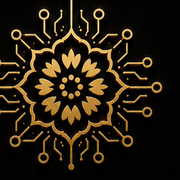
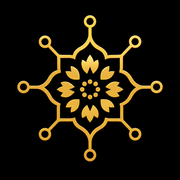
Add files via upload

Changed region(s): [[0.0, 0.0, 0.9167, 0.9444]]

diff --git a/src/styles.css b/src/styles.css
@@ -619,3 +619,68 @@ footer p {
     opacity: .18 !important;
   }
 }
+
+
+/* Luxury logo background and scrolled header logo update */
+#home {
+  overflow: hidden;
+}
+
+#home::before {
+  background:
+    radial-gradient(circle at center, rgba(0,0,0,.08), transparent 34%),
+    linear-gradient(90deg, rgba(0,0,0,.90) 0%, rgba(0,0,0,.62) 42%, rgba(0,0,0,.82) 100%) !important;
+}
+
+.hero-background-logo {
+  position: absolute;
+  inset: 0;
+  display: grid !important;
+  place-items: center !important;
+  pointer-events: none;
+  overflow: hidden;
+  z-index: 1;
+}
+
+.hero-background-logo img {
+  width: min(1040px, 84vw) !important;
+  max-height: 78vh;
+  height: auto;
+  object-fit: contain;
+  object-position: center center;
+  opacity: .34 !important;
+  transform: none !important;
+  filter:
+    drop-shadow(0 0 34px rgba(217,164,65,.40))
+    drop-shadow(0 0 110px rgba(217,164,65,.24)) !important;
+}
+
+.header-logo-horizontal {
+  width: 210px !important;
+  height: 56px !important;
+  object-fit: contain !important;
+  object-position: left center !important;
+  border-radius: 0 !important;
+  filter: drop-shadow(0 0 14px rgba(217,164,65,.28));
+}
+
+.header-brand {
+  min-width: 210px;
+  justify-content: flex-start !important;
+}
+
+@media (max-width: 980px) {
+  .hero-background-logo img {
+    width: min(780px, 96vw) !important;
+    opacity: .25 !important;
+  }
+
+  .header-logo-horizontal {
+    width: 175px !important;
+    height: 46px !important;
+  }
+
+  .header-brand {
+    min-width: 175px;
+  }
+}

diff --git a/src/main.jsx b/src/main.jsx
@@ -17,8 +17,9 @@ import {
   ServerCog,
   ClipboardList
 } from "lucide-react";
-import primaryLogo from "./assets/lodes-primary-clean.png";
+import luxuryLogoBackground from "./assets/luxury-logo-background.png";
 import iconLogo from "./assets/lodes-icon-clean.png";
+import horizontalHeaderLogo from "./assets/horizontal-header-logo.png";
 import "./styles.css";
 
 const navItems = [
@@ -95,12 +96,11 @@ function App() {
 
       <header className={`site-header ${activeSection !== "home" ? "scrolled" : ""}`}>
         <button className="header-brand" onClick={() => scrollTo("home")} aria-label="Go to home">
-          {activeSection !== "home" && (
-            <img src={iconLogo} alt="LODΣS icon" />
+          {activeSection !== "home" ? (
+            <img className="header-logo-horizontal" src={horizontalHeaderLogo} alt="LODΣS horizontal logo" />
+          ) : (
+            <span className="wordmark">LOD<span>Σ</span>S</span>
           )}
-          <span className="wordmark">
-            LOD<span>Σ</span>S
-          </span>
         </button>
 
         <nav className="nav">
@@ -118,7 +118,7 @@ function App() {
 
       <section id="home" className="section hero">
         <div className="hero-background-logo">
-          <img src={iconLogo} alt="LODΣS background emblem" />
+          <img src={luxuryLogoBackground} alt="LODΣS luxury background logo" />
         </div>
         <motion.div
           className="hero-copy"